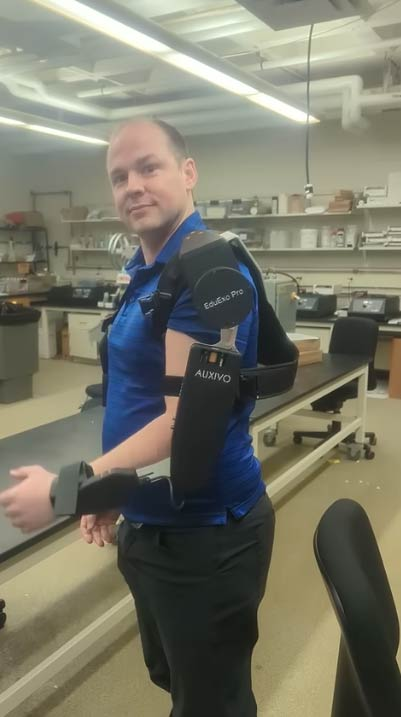
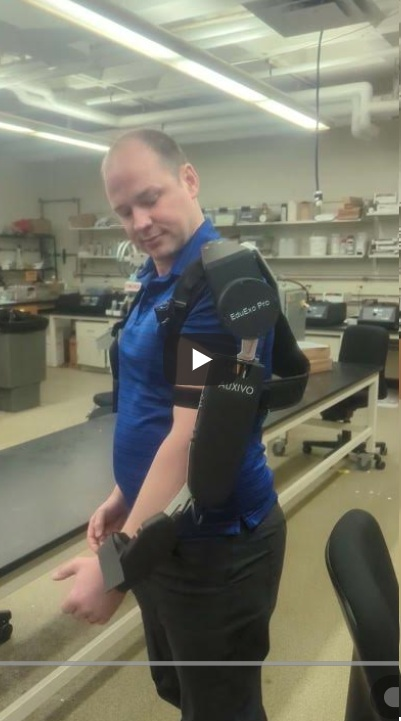
update
changed/added photo
fixed jumplinks
added border
added line breaks

diff --git a/labprofile/index.html b/labprofile/index.html
@@ -531,6 +531,7 @@
 
         <!-- COLLEGE PROGECTS  -->
         <section id="college">
+            <hr>
             <h2>College</h2>
             <div class="research">
                 <h3>Research</h3>
@@ -576,8 +577,11 @@
             </div>
             
             <div class="club">
-                <h3>Cyberbotics Competion Club</h3>
-                <h4>Robot Club</h4>
+                <a href="https://blugoldconnect.uwec.edu/cyberbotics/home/" target="_blank" >
+                    <h3>Cyberbotics Competion Club</h3>
+                </a>
+                
+                <h4>"Robot Club"</h4>
 
                 <div class="MiCS">
                     <p> MICS 2025 </p>
@@ -612,6 +616,7 @@
         </section>
         <!-- NAVY HISTORY  -->
         <section id="navy">
+            <hr>
             <h2>Navy</h2>
             <!-- need to rotate  -->
             <div class="USMAP">
@@ -619,6 +624,8 @@
                 <img src="images/USMAP_MECHANIC.jpg" alt="USMAP">
                 <img src="images/USMAP_HYDRO.jpg" alt="USMAP">
                 <img src="images/USMAP_OPERATOR.jpg" alt="USMAP">
+                <img src="images/USMAP_COMPUTER.jpg" alt="USMAP">
+                <img src="images/USMAP_COUNSELOR.jpg" alt="USMAP">
             </div>
             <!-- put accomlishment here  -->
             <!-- put awards here  -->
@@ -630,10 +637,11 @@
 
         <!--Intrests and Hobbies-->
         <section id="intrest">
+            <hr>
             <h2>Intrests and Hobbies</h2>
             <div class="hobbies">
                 <h3>Exploring</h3>
-                <p>With circumnavigating the globe in the Navy exlproing has become normal</p>
+                <p>With circumnavigating the globe, and visiting over 20 contries in the Navy exlproing has become normal</p>
 
             </div>
 
@@ -645,7 +653,7 @@
 
             <div class="hobbies">
                 <h3>Sailing</h3>
-                <p> Took my own time to learn the ways of the sail</p>
+                <p> Took my own time to learn the ways of the sail, becoming ASA and US Sailing certified</p>
 
             </div>
 

diff --git a/labprofile/style.css b/labprofile/style.css
@@ -1,8 +1,24 @@
+html {
+  scroll-padding-top: 15rem; /* Adjust this value to the height of your sticky header */
+}
+
+body{
+    margin: 0;
+    border: 1rem solid gold;
+
+}
+hr {
+    width: calc(100vw - 3rem);
+    color: navy;
+}
+
 
 header{
     position: sticky;
     top: 0;
     left: 0;
+    margin: 0;
+    width: 100%;
     display:  block;
     align-items: center;
     text-align: center;
